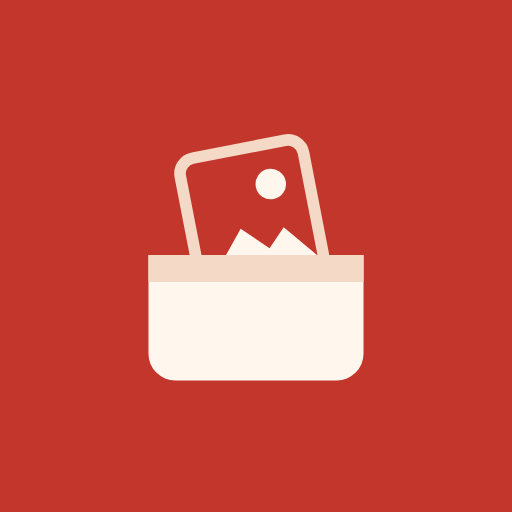
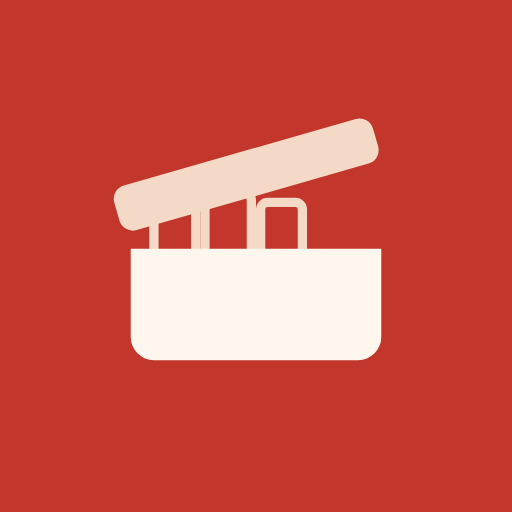
Lid-ajar mark, loading screen with slogan, header clear of the iPhone fade
- New mark everywhere: a box with its lid lifted and things inside (logo,
  favicon, app icons).
- Loading screen with the mark, name and "Keep it. Come back to it.";
  the lid lifts once, then it fades when the timeline is ready.
- In the installed app, the header, sheets, reader and update bar start
  below the blurred fade iOS draws under the status bar, as in Scales.
- Version 4.1.0.

Claude-Session: https://claude.ai/code/session_01D8WFbH8fnDVbhMnpMquD13

Changed region(s): [[0.2188, 0.2188, 0.75, 0.75]]

diff --git a/styles.css b/styles.css
@@ -52,6 +52,7 @@
   --gutter-l: max(16px, var(--safe-l));
   --gutter-r: max(16px, var(--safe-r));
   --rail: 40px;
+  --fade: 0px; /* the iPhone's blur under the status bar, in the installed app (see below) */
   --gap: 12px;
 
   color-scheme: light;
@@ -86,6 +87,10 @@
   }
 }
 
+/* On iPhone, an installed web app gets a blurred fade under the status bar that covers
+   whatever is there. Everything pinned to the top starts below it, as in Scales. */
+@media (display-mode: standalone) { :root { --fade: 44px; } }
+
 /* ---------- Lock the page: no pan, no bounce, no zoom ---------- */
 * { box-sizing: border-box; -webkit-tap-highlight-color: transparent; }
 html { font-size: 100%; }
@@ -109,6 +114,23 @@ a { color: inherit; text-decoration: none; }
 .i.fill { fill: currentColor; stroke: none; }
 .label { font-size: 0.8125rem; font-weight: 500; color: var(--muted); }
 
+/* ================= Loading screen =================
+ * In the page itself, so it shows the moment the app opens. The lid lifts
+ * once; the screen fades when the timeline is ready.
+ */
+.splash {
+  position: fixed; inset: 0; z-index: 100; background: var(--bg);
+  display: flex; flex-direction: column; align-items: center; justify-content: center; gap: 6px;
+  padding: var(--safe-t) var(--gutter-r) var(--safe-b) var(--gutter-l); text-align: center;
+  transition: opacity 0.35s ease;
+}
+.splash.out { opacity: 0; pointer-events: none; }
+.splash-mark { width: 112px; height: 112px; margin-bottom: 10px; }
+.splash-mark .lid { transform-box: view-box; transform-origin: 6px 26px; animation: lid-open 0.8s cubic-bezier(0.3, 0.7, 0.2, 1) 0.15s both; }
+@keyframes lid-open { from { transform: rotate(0deg); } to { transform: rotate(-16deg); } }
+.splash-name { margin: 0; font: 400 2.75rem/1 var(--serif); color: var(--sig); letter-spacing: -0.01em; }
+.splash-line { margin: 0; font-size: 1rem; color: var(--muted); }
+
 /* ================= Timeline ================= */
 .tl {
   position: fixed; top: 0; left: 0; right: 0; height: var(--app-h, 100%);
@@ -118,7 +140,7 @@ a { color: inherit; text-decoration: none; }
 .tl > header, .tl > main { max-width: 600px; margin: 0 auto; }
 .top {
   position: sticky; top: 0; z-index: 5; background: var(--bg);
-  padding: var(--safe-t) var(--gutter-r) 0 var(--gutter-l); border-bottom: 1px solid var(--line);
+  padding: calc(var(--safe-t) + var(--fade)) var(--gutter-r) 0 var(--gutter-l); border-bottom: 1px solid var(--line);
 }
 .bar { display: flex; align-items: center; gap: 10px; min-height: 56px; }
 .mark { margin: 0; display: flex; align-items: center; gap: 8px; font: 400 1.85rem/1 var(--serif); color: var(--sig); letter-spacing: -0.005em; }
@@ -312,7 +334,7 @@ a { color: inherit; text-decoration: none; }
 /* ================= Sheets ================= */
 .sheet-wrap {
   position: fixed; top: 0; left: 0; right: 0; height: var(--app-h, 100%); z-index: 30; background: var(--scrim);
-  display: flex; align-items: flex-end; justify-content: center; padding-top: calc(var(--safe-t) + 12px);
+  display: flex; align-items: flex-end; justify-content: center; padding-top: calc(var(--safe-t) + var(--fade) + 12px);
 }
 .sheet {
   width: 100%; max-width: 600px; max-height: 100%; overflow-y: auto; overscroll-behavior: contain;
@@ -393,7 +415,7 @@ a { color: inherit; text-decoration: none; }
 .reader-inner { position: relative; height: 100%; max-width: 600px; margin: 0 auto; }
 .segs { display: none; }
 .reader-top {
-  position: absolute; z-index: 3; top: calc(var(--safe-t) + 8px); left: calc(var(--gutter-l) - 6px); right: calc(var(--gutter-r) - 6px);
+  position: absolute; z-index: 3; top: calc(var(--safe-t) + var(--fade) + 8px); left: calc(var(--gutter-l) - 6px); right: calc(var(--gutter-r) - 6px);
   display: flex; align-items: center; gap: 6px; transition: opacity 0.6s ease;
 }
 .reader-top .x { margin: 0; background: color-mix(in srgb, var(--bg) 80%, transparent); }
@@ -401,7 +423,7 @@ a { color: inherit; text-decoration: none; }
 .reader-top .left { margin-left: auto; font-size: 0.8125rem; color: var(--muted); font-variant-numeric: tabular-nums; }
 .story {
   height: 100%; overflow-y: auto; overscroll-behavior: contain; -webkit-overflow-scrolling: touch;
-  padding: calc(var(--safe-t) + 64px) var(--gutter-r) calc(var(--safe-b) + 120px) var(--gutter-l);
+  padding: calc(var(--safe-t) + var(--fade) + 64px) var(--gutter-r) calc(var(--safe-b) + 120px) var(--gutter-l);
   display: flex; flex-direction: column; gap: 16px; touch-action: pan-y;
   transition: transform 0.18s ease, opacity 0.18s ease;
 }
@@ -449,7 +471,7 @@ a { color: inherit; text-decoration: none; }
 
 /* Pull down and release to go back */
 .pull-tip {
-  position: fixed; z-index: 60; left: 50%; top: calc(var(--safe-t) + 14px); transform: translateX(-50%);
+  position: fixed; z-index: 60; left: 50%; top: calc(var(--safe-t) + var(--fade) + 14px); transform: translateX(-50%);
   display: flex; align-items: center; gap: 6px; padding: 8px 14px; border-radius: 18px; white-space: nowrap;
   background: var(--bg); border: 1px solid var(--line-2); color: var(--muted); font-size: 0.8125rem; font-weight: 500;
   opacity: 0; pointer-events: none; transition: color 0.12s, border-color 0.12s;
@@ -467,7 +489,7 @@ a { color: inherit; text-decoration: none; }
 .toast button { min-height: 52px; padding: 0 16px; font-weight: 600; color: var(--toast-act); }
 /* The update bar stays until Reload is tapped. It sits above the + button and any toast. */
 .update-bar {
-  position: fixed; z-index: 45; left: var(--gutter-l); right: var(--gutter-r); top: calc(var(--safe-t) + 10px); max-width: 560px; margin: 0 auto;
+  position: fixed; z-index: 45; left: var(--gutter-l); right: var(--gutter-r); top: calc(var(--safe-t) + var(--fade) + 10px); max-width: 560px; margin: 0 auto;
   min-height: 52px; display: flex; align-items: center; justify-content: space-between; gap: 8px; padding-left: 16px;
   background: var(--sig); color: var(--on-sig); border-radius: 16px; font-size: 0.9375rem; font-weight: 500; box-shadow: 0 10px 30px rgba(0, 0, 0, 0.25);
 }

diff --git a/src/app.js b/src/app.js
@@ -33,7 +33,7 @@ import { I, LOGO } from "./icons.js";
 import { topicColor, dominantColor, tintInks } from "./visuals.js";
 import { problems, noteError as logError, onFirstProblem, clearProblems, formatProblem } from "./problems.js";
 
-export const VERSION = "4.0.0";
+export const VERSION = "4.1.0";
 const APP = "Shoebox";
 const noteError = (e, opts = {}) => logError(e, { ...opts, version: VERSION });
 
@@ -114,6 +114,7 @@ async function boot() {
   render();
   if (migrated) toast(`Brought over ${migrated} saved item${migrated === 1 ? "" : "s"} from the old version.`);
   else if (seeded) toast(`Loaded ${seeded} sample items. Remove them in Settings.`);
+  hideSplash();
   wireGlobal();
   picturePending();
   enrichPending();
@@ -130,6 +131,15 @@ function updateBar() {
   el.innerHTML = `<span>${APP} was updated.</span><button type="button">Reload</button>`;
   $("button", el).addEventListener("click", () => location.reload());
   document.body.appendChild(el);
+}
+
+/** Fade the loading screen once the timeline is on screen, after the lid has had time to lift. */
+const opened = performance.now();
+function hideSplash() {
+  const el = $("#splash");
+  if (!el) return;
+  const wait = reduced() ? 0 : Math.max(0, 900 - (performance.now() - opened));
+  setTimeout(() => { el.classList.add("out"); setTimeout(() => el.remove(), 400); }, wait);
 }
 
 /* Your photo: the face on every post you wrote. Kept on this phone only. */
@@ -2599,5 +2609,6 @@ function withTimeout(p, ms) { return Promise.race([p, new Promise((_, r) => setT
 
 boot().catch((e) => {
   noteError(e, { quiet: true, where: "start" });
+  $("#splash")?.remove();
   app.innerHTML = `<main class="tl"><section class="end"><h2>Something broke.</h2><p>${esc(e && e.message)}</p></section></main>`;
 });

diff --git a/index.html b/index.html
@@ -6,7 +6,7 @@
   <meta name="theme-color" content="#FFFFFF" media="(prefers-color-scheme: light)">
   <meta name="theme-color" content="#17120F" media="(prefers-color-scheme: dark)">
   <meta name="color-scheme" content="light dark">
-  <meta name="description" content="Shoebox: the things you saved for yourself, back as a short daily timeline.">
+  <meta name="description" content="Shoebox. Keep it. Come back to it. The things you saved for yourself, back as a short daily timeline.">
   <meta name="apple-mobile-web-app-capable" content="yes">
   <meta name="apple-mobile-web-app-status-bar-style" content="default">
   <meta name="apple-mobile-web-app-title" content="Shoebox">
@@ -21,6 +21,11 @@
   <link rel="stylesheet" href="styles.css">
 </head>
 <body>
+  <div id="splash" class="splash" role="status" aria-label="Loading Shoebox">
+    <svg class="splash-mark" viewBox="0 0 64 64" aria-hidden="true" focusable="false"><rect x="10" y="22" width="9" height="12" rx="1.5" style="fill:var(--logo-card);stroke:var(--logo-rim)" stroke-width="2"/><rect x="21" y="19" width="10" height="15" rx="1.5" style="fill:var(--logo-card);stroke:var(--logo-rim)" stroke-width="2"/><rect x="33" y="21" width="9" height="13" rx="1.5" style="fill:var(--logo-card);stroke:var(--logo-rim)" stroke-width="2"/><path d="M5 31h54v19a5 5 0 0 1-5 5H10a5 5 0 0 1-5-5z" style="fill:var(--logo-box)"/><g class="lid" transform="rotate(-16 6 26)"><rect x="3" y="17" width="58" height="10" rx="3" style="fill:var(--logo-rim)"/></g></svg>
+    <p class="splash-name">Shoebox</p>
+    <p class="splash-line">Keep it. Come back to it.</p>
+  </div>
   <div id="app" class="app"></div>
   <noscript>Shoebox needs JavaScript.</noscript>
   <script type="module" src="src/app.js"></script>

diff --git a/src/icons.js b/src/icons.js
@@ -39,10 +39,9 @@ export const I = {
 };
 
 /*
- * The Shoebox mark: a photo tucked into an open box. Colours come from the
- * page's tokens (--logo-box, --logo-rim, --logo-card), so it follows the theme.
+ * The Shoebox mark: a box with its lid lifted, things standing inside.
+ * Colours come from the page's tokens (--logo-box, --logo-rim, --logo-card),
+ * so it follows the theme.
  */
 export const LOGO = '<svg class="logo-svg" viewBox="0 0 64 64" aria-hidden="true" focusable="false">'
-  + '<g transform="rotate(-11 32 24)"><rect x="18" y="4" width="28" height="30" rx="3.5" style="fill:var(--logo-card);stroke:var(--logo-rim)" stroke-width="2.6"/>'
-  + '<circle cx="37.5" cy="13" r="3.4" style="fill:var(--logo-box)"/><path d="M21 31l8-9.5 5.5 5.5 4-4 6.5 8z" style="fill:var(--logo-box)"/></g>'
-  + '<path d="M8 28h48v22a6 6 0 0 1-6 6H14a6 6 0 0 1-6-6z" style="fill:var(--logo-box)"/><path d="M8 28h48v6H8z" style="fill:var(--logo-rim)"/></svg>';
+  + '<rect x="10" y="22" width="9" height="12" rx="1.5" style="fill:var(--logo-card);stroke:var(--logo-rim)" stroke-width="2"/><rect x="21" y="19" width="10" height="15" rx="1.5" style="fill:var(--logo-card);stroke:var(--logo-rim)" stroke-width="2"/><rect x="33" y="21" width="9" height="13" rx="1.5" style="fill:var(--logo-card);stroke:var(--logo-rim)" stroke-width="2"/><path d="M5 31h54v19a5 5 0 0 1-5 5H10a5 5 0 0 1-5-5z" style="fill:var(--logo-box)"/><g class="lid" transform="rotate(-16 6 26)"><rect x="3" y="17" width="58" height="10" rx="3" style="fill:var(--logo-rim)"/></g>' + '</svg>';

diff --git a/sw.js b/sw.js
@@ -4,7 +4,7 @@
  * Bump VERSION with each release so phones pick up the new shell.
  */
 
-const VERSION = "4.0.0";
+const VERSION = "4.1.0";
 const CACHE = `edition-${VERSION}`;
 const SHELL = [
   "./",

diff --git a/README.md b/README.md
@@ -1,5 +1,7 @@
 # Shoebox
 
+*Keep it. Come back to it.*
+
 <img src="icons/logo.svg" alt="" width="72" align="right">
 
 Personal media, not social media. Shoebox is where the links, photos, quotes, notes and files you mean to come back to go, and it gives them back as a timeline that feels like a feed but is written by you: your face on every post, your reason for saving it at the top, the page's own picture underneath. Each day it's finite. Clear it and you're done until tomorrow.
@@ -104,7 +106,9 @@ Bump `VERSION` in `sw.js` and `src/app.js` with each release so installed copies
 
 ## Design
 
-A bright white page, warm brown-black ink and one brick-red signature (`#C2362B`); dark mode is a warm near-black with the same brick red. Photos carry the rest of the colour. Instrument Serif for your own words and headlines, Geist for everything else. The mark is a photo tucked into an open box.
+A bright white page, warm brown-black ink and one brick-red signature (`#C2362B`); dark mode is a warm near-black with the same brick red. Photos carry the rest of the colour. Instrument Serif for your own words and headlines, Geist for everything else. The mark is a box with its lid lifted and things standing inside. The app opens on a loading screen with the mark, the name and the line *Keep it. Come back to it.*, and the lid lifts once.
+
+On iPhone, the installed app blurs a band under the status bar; the header, sheets and reader all start below it. The mark is a photo tucked into an open box.
 
 Accessibility: all text meets 4.5:1 contrast in both themes; every control is at least 44px; type follows the phone's text size; photos carry alt text (from the AI when a key is set); sheets are dialogs that hold focus, close with Escape and return focus; Undo stays for seven seconds and pauses while touched; love has a button as well as the double-tap; motion respects Reduce Motion.
 
